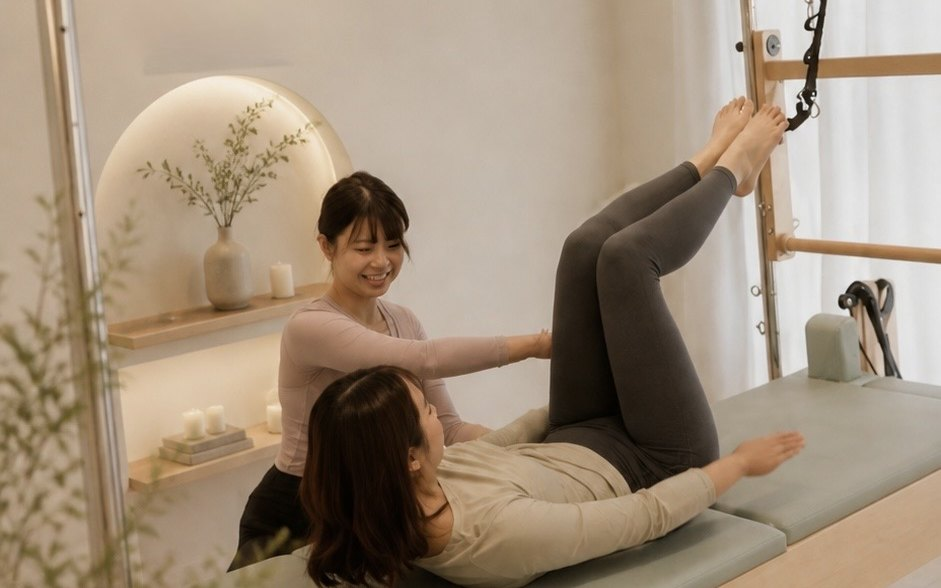
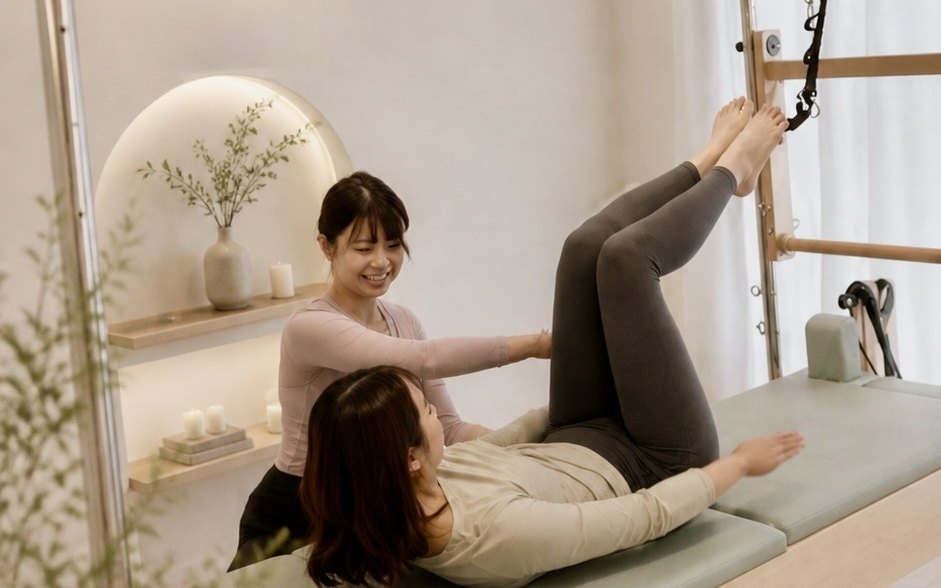
Use the provided personal and group lesson photos
Claude-Session: https://claude.ai/code/session_01Te9ZLciDSS7Hf6CjYUndE5

diff --git a/index.html b/index.html
@@ -398,7 +398,7 @@
 
           <article class="lesson-card fade-in">
             <div class="lesson-card__image photo">
-              <img src="images/studio-mat.jpg" alt="ピラティスマットとボール" width="290" height="252" loading="lazy">
+              <img src="images/lesson-group.jpg" alt="インストラクターと一緒にマットの上でストレッチをする少人数グループレッスンの様子" width="1506" height="941" loading="lazy">
             </div>
             <div class="lesson-card__body">
               <p class="lesson-card__tag">GL</p>
